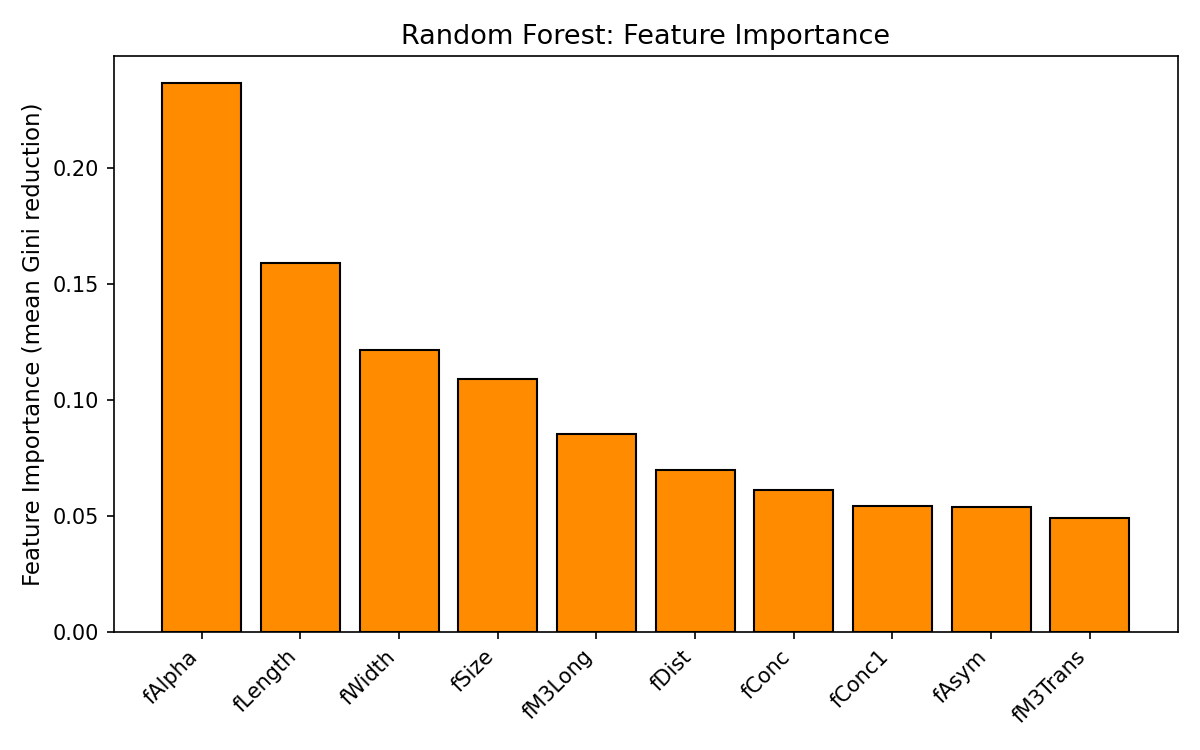
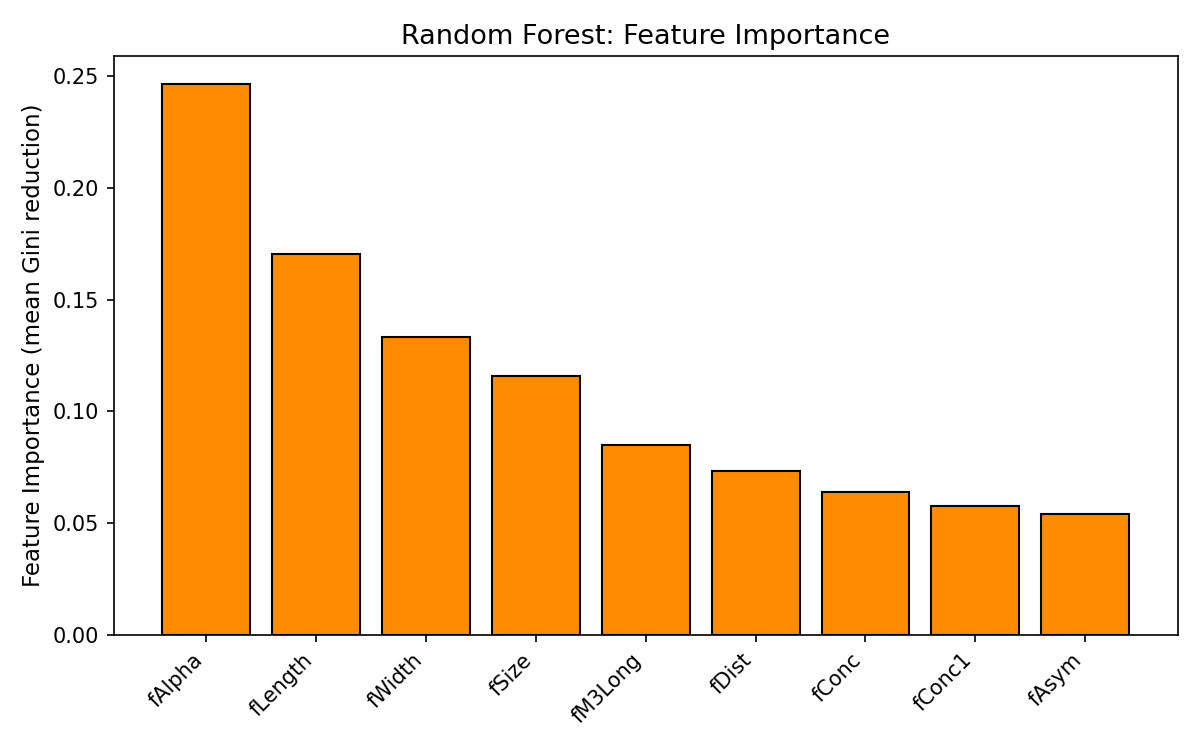
updating RF

diff --git a/05_random_forest.py b/05_random_forest.py
@@ -12,6 +12,7 @@ import os
 import matplotlib.pyplot as plt
 from sklearn.ensemble import RandomForestClassifier
 from sklearn.pipeline import Pipeline
+from sklearn.model_selection import train_test_split
 from sklearn.model_selection import StratifiedKFold, GridSearchCV
 # Wrapper-method feature selection (Lecture 6 Quick Summary table:
 # "Backward elimination -- Start full, keep removing the worst feature";
@@ -77,6 +78,30 @@ print(f"X_train: {X_train.shape}, X_test: {X_test.shape}")
    the default and generally performs similarly to entropy in practice."""  # CHANGED: point 2's note about tuning added
 
 
+"""Lecture 10 ("Wrap Up"), Step 5 -- Shortlist Promising Models:
+"If your dataset is huge, you might sample a smaller portion for this
+step so training is fast. Just know that complex models (like Random
+Forests...) suffer more from having less data." Same pattern already
+used in 04_svm.py's X_train_sub. We use 6000 rows here instead of SVM's
+4000, precisely because of that RF-specific caveat -- RF needs a bit more
+data than SVM/kNN to behave representatively.
+
+This subsample is used ONLY for the nested search below (Section 3+4b),
+which is what was taking forever: it retrains the feature-selection probe
+and the classifier repeatedly across every fold x every grid combination.
+The FINAL model is explicitly refit on the FULL training set afterward
+(Section 5), per Lecture 10 Step 6: "Use as much data as you can" for the
+fine-tuned final model -- so nothing about the deployed model's quality
+changes, only the search that finds its hyperparameters gets faster."""
+
+X_train_sub, _, y_train_sub, _ = train_test_split(
+    X_train, y_train,
+    train_size=6000,
+    stratify=y_train,
+    random_state=42
+)
+
+print(f"\nSubsample for nested search: {X_train_sub.shape[0]} rows")
 
 # =============================================================================
 # SECTION 3+4b: HYPERPARAMETER TUNING + FEATURE SELECTION — NESTED TOGETHER  # CHANGED: sections merged/renamed
@@ -125,7 +150,7 @@ grid_search = GridSearchCV(  # replaces the old manual double for-loop + cross_v
     scoring="balanced_accuracy",
     n_jobs=-1
 )
-grid_search.fit(X_train, y_train)
+grid_search.fit(X_train_sub, y_train_sub)  # CHANGED: was grid_search.fit(X_train, y_train)
 
 best_params = {  # was populated inside the manual for-loop via `if mean_score > best_score:` comparisons
     "n_estimators": grid_search.best_params_["clf__n_estimators"],
@@ -197,9 +222,21 @@ print("Plot saved: 11_rf_hyperparameter_search.png")
 # SECTION 5: TRAIN FINAL MODEL ON FULL TRAINING SET, EVALUATE ON TEST SET
 # =============================================================================
 
-final_rf = best_pipeline.named_steps["clf"]  # CHANGED: was `RandomForestClassifier(n_estimators=..., max_depth=..., max_features="sqrt", ...)` freshly constructed + `.fit(X_train, y_train)`
+# ADDED: refit explicitly on the FULL training set (not just the 6000-row
+# search subsample), per Lecture 10 Step 6: "Use as much data as you can
+# at this stage." Same pattern as 04_svm.py's final_svm refit.
+final_rf = RandomForestClassifier(  # CHANGED: was `final_rf = best_pipeline.named_steps["clf"]`
+    n_estimators=best_params["n_estimators"],
+    max_depth=best_params["max_depth"],
+    max_features=best_params["max_features"],
+    random_state=42,
+    n_jobs=-1   # ADDED: fine to parallelize now -- this is a single fit, not nested inside a search
+)
+
 X_train = X_train[selected_features]   # keep for feature_importances_ / plotting below  # ADDED
-X_test = X_test[selected_features]  # ADDED
+X_test = X_test[selected_features]
+
+final_rf.fit(X_train, y_train)  # ADDED: explicit fit on the FULL 15216-row training set
 
 y_pred = final_rf.predict(X_test)
 y_pred_proba = final_rf.predict_proba(X_test)[:, list(final_rf.classes_).index("g")]

diff --git a/02_preprocessing.py b/02_preprocessing.py
@@ -99,18 +99,6 @@ plt.savefig(os.path.join("results", "plots", "01_class_distribution.png"), dpi=1
 plt.show()      # Display the plot on the screen
 print("Plot saved: 01_class_distribution.png")
 
-# SECTION 2: MISSING VALUES (NO ACTION NEEDED) & CHECK FOR DUPLICATE ROWS (NO REMOVAL)
-
-print(f"\n--- Missing values check (carried over from 01_eda.py) ---")
-print("Confirmed: 0 missing values, 0 hidden missing-value placeholders.")
-print("Decision: no filling in or row deletion needed.")
-
-n_duplicates = df.duplicated().sum()
-print(f"\n--- Duplicate rows (kept, not removed) ---")
-print(f"Number of duplicate rows: {n_duplicates}")
-print("Decision: keeping all rows - no evidence these are data errors yet")
-
-
 # SECTION 3: TRAIN / TEST SPLIT
 
 X = df[[col for col in df.columns if col != "class"]]
